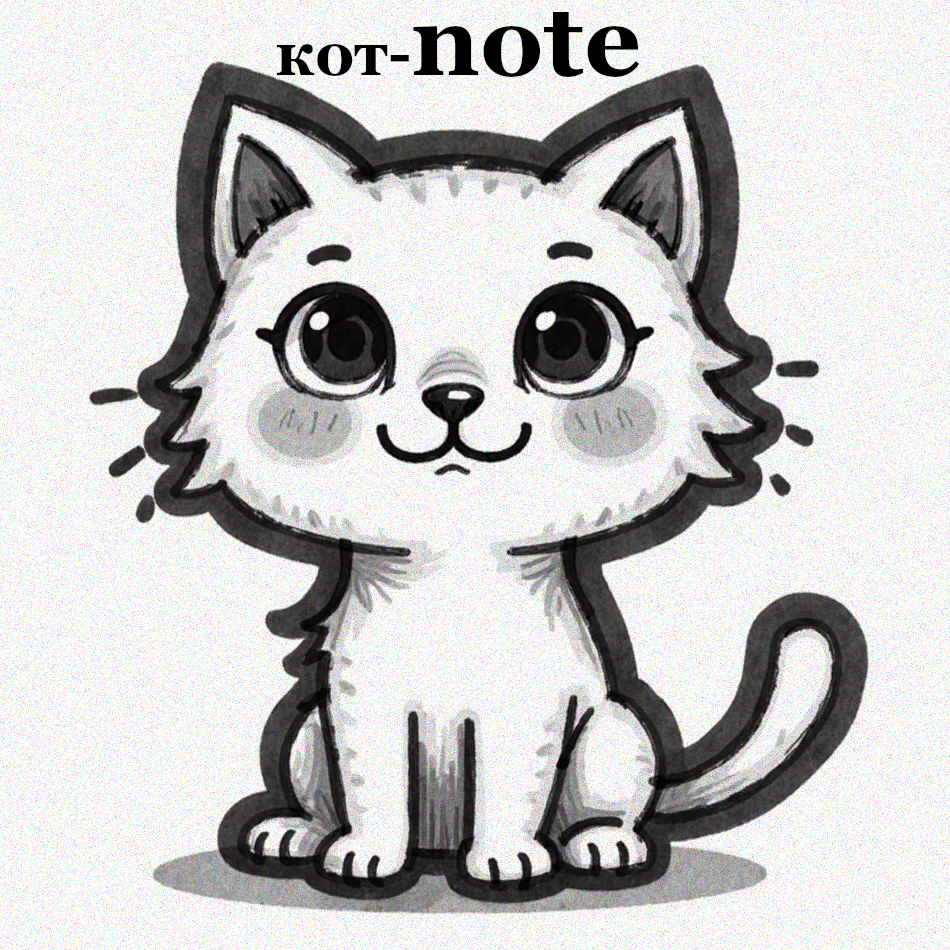
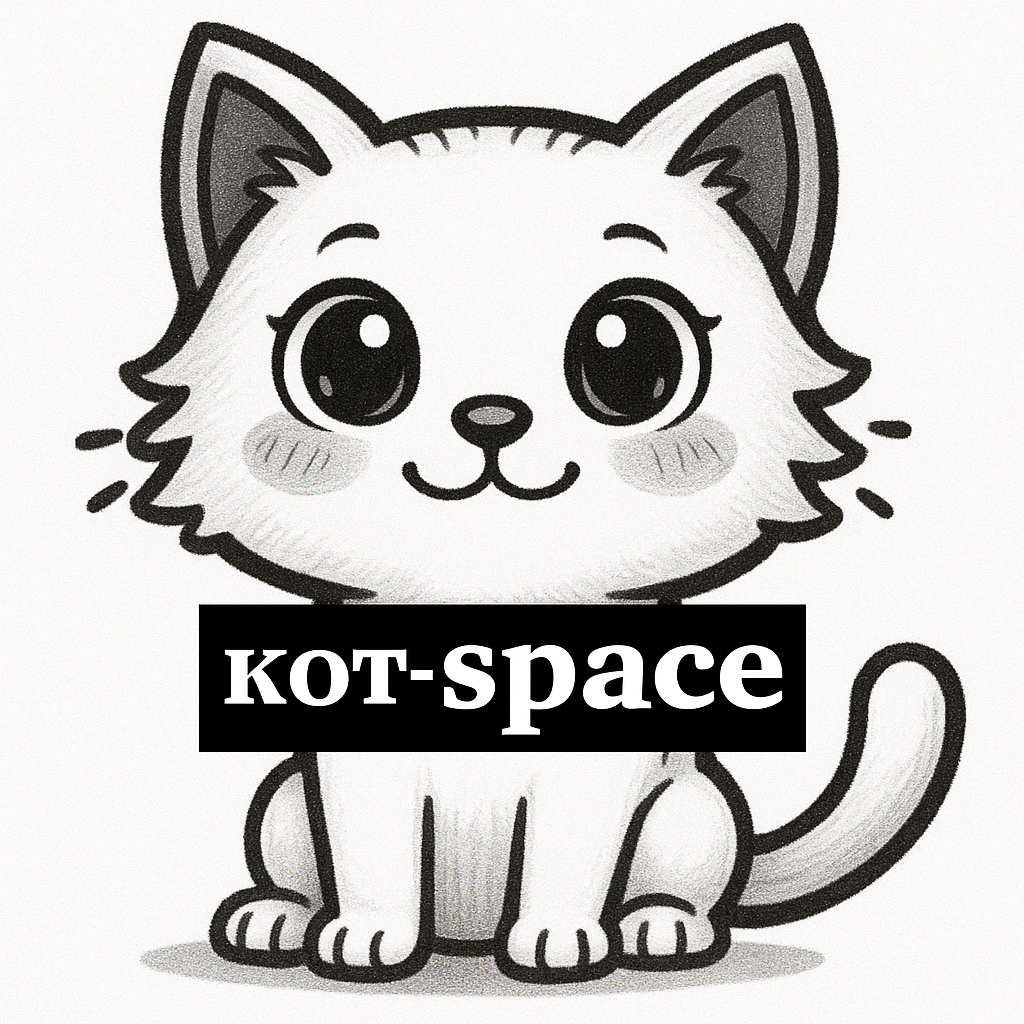
Update UI elements and improve translations across various components

diff --git a/app/pricing/page.tsx b/app/pricing/page.tsx
@@ -63,7 +63,7 @@ export default function PricingPage() {
               <h2 className="text-2xl font-bold text-[var(--foregorund)]">
                 {t("pricing.plan.name")}
               </h2>
-              <div className="bg-red-500 text-white px-3 py-1 text-sm font-medium rounded-full">
+              <div className="bg-green-500 text-white px-3 py-1 text-sm font-medium rounded-full">
                 {t("pricing.plan.mostPopular")}
               </div>
             </div>
@@ -71,7 +71,7 @@ export default function PricingPage() {
           <div className="p-8">
             <div className="mb-8 flex items-baseline">
               <span className="text-5xl font-extrabold text-[var(--foreground)]">
-                R$ {t("pricing.plan.price")}
+                {t("pricing.plan.price")}
               </span>
 
               <span className="ml-1 text-xl font-medium text-[var(--foreground)]">
@@ -147,7 +147,7 @@ export default function PricingPage() {
                 {t("pricing.orderSummary.planLabel")} {t("pricing.plan.name")}
               </span>
               <span className="font-medium text-[var(--foreground)]">
-                R$ {t("pricing.plan.price")}
+                {t("pricing.plan.price")}
               </span>
             </div>
             <div className="flex justify-between py-4 border-t border-b border-[var(--border-color)]">
@@ -163,7 +163,7 @@ export default function PricingPage() {
                 {t("pricing.orderSummary.total")}
               </span>
               <span className="text-lg font-bold text-[var(--foreground)]">
-                R$ {t("pricing.plan.price")}
+                 {t("pricing.plan.price")}
                 {t("pricing.plan.perPeriod")}
               </span>
             </div>
@@ -181,7 +181,7 @@ export default function PricingPage() {
             </div>
           </div>
         </div>
-        <div className="mt-12 bg-[var(--highlight)] p-6 rounded-2xl border-l-4 border-red-500">
+        {/* <div className="mt-12 bg-[var(--highlight)] p-6 rounded-2xl border-l-4 border-red-500">
           <h4 className="font-bold text-[var(--foreground)] text-center">
             Oferta especial por tempo limitado! Economize 33%
           </h4>
@@ -189,7 +189,7 @@ export default function PricingPage() {
             Organize, planeje e realize mais com recursos avançados de
             calendário e gerenciamento de tarefas
           </p>
-        </div>
+        </div> */}
       </div>
     </div>
   );

diff --git a/app/components/tasks.tsx b/app/components/tasks.tsx
@@ -211,7 +211,7 @@ const Tasks = () => {
             setIsAddingTask(!isAddingTask);
             setTimeout(() => newTaskInputRef.current?.focus(), 100);
           }}
-          className="flex items-center gap-1 px-3 py-1.5 rounded-full bg-[var(--theme)] text-[var(--foreground)] hover:opacity-90 transition-all text-sm"
+          className="flex items-center gap-1 px-3 py-1.5 c bg-[var(--theme)] text-[var(--foreground)] hover:opacity-90 transition-all text-sm"
         >
           {isAddingTask ? (
             <>{t("tasks.cancel")}</>
@@ -420,7 +420,7 @@ const Tasks = () => {
                   }
                   className="flex-shrink-0 mt-1"
                 >
-                  <div
+                  <div id="checkbox"
                     className={`w-5 h-5 ${
                       task.is_completed
                         ? "bg-[var(--foreground)] border-[var(--foreground)]"
@@ -429,7 +429,7 @@ const Tasks = () => {
                           : task.priority === "low"
                             ? "border-green-400"
                             : "border-yellow-400"
-                    } border rounded-full flex items-center justify-center transition-colors`}
+                    } border flex items-center justify-center transition-colors`}
                   >
                     {task.is_completed && (
                       <svg

diff --git a/app/components/sidebox.tsx b/app/components/sidebox.tsx
@@ -489,9 +489,9 @@ export default function Sidebox() {
                       <div className="flex items-center flex-1 min-w-0">
                         <div className="p-1">
                           {folder.expanded ? (
-                            <FolderOpen size={16} className="text-yellow-400" />
+                            <FolderOpen size={16} className="text-blue-400" />
                           ) : (
-                            <Folder size={16} className="text-yellow-400" />
+                            <Folder size={16} className="text-blue-400" />
                           )}
                         </div>
                         <ChevronDown
@@ -721,7 +721,7 @@ export default function Sidebox() {
                               <div className="ml-2 flex items-center text-xs">
                                 <Folder
                                   size={12}
-                                  className="mr-1 text-yellow-400"
+                                  className="mr-1 text-blue-400"
                                 />
                                 <span className="truncate max-w-[80px]">
                                   {folders.find((f) => f.id === note.folder_id)

diff --git a/public/splash.html b/public/splash.html
@@ -3,7 +3,7 @@
   <head>
     <meta charset="UTF-8" />
     <meta name="viewport" content="width=device-width, initial-scale=1.0" />
-    <title>Кот-note - Splash Screen</title>
+    <title>Кот-space - Splash Screen</title>
     <style>
       body {
         margin: 0;
@@ -14,7 +14,7 @@
         height: 100vh;
         background:
           linear-gradient(to bottom, rgba(0, 0, 0, 0.2), rgba(0, 0, 0, 0.2)),
-          url("static/images/kotnote.png") no-repeat center top/cover;
+          url("static/images/kotnote.png") no-repeat center center/cover;
         color: white;
         font-family: "Arial", sans-serif;
       }
@@ -66,7 +66,7 @@
   </head>
   <body>
     <div class="splash-container">
-      <div class="splash-title">Кот-note</div>
+      <div class="splash-title">Кот-space</div>
       <div class="splash-subtitle">
         Capture inspiration, craft ideas, and let your notes shine
       </div>

diff --git a/app/editor/page.tsx b/app/editor/page.tsx
@@ -10,7 +10,7 @@ export default function EditorPage() {
   return (
     <ProtectedRoute>
       <div className="h-screen bg-[var(--background)] overflow-y-auto scrollbar flex flex-col">
-        <div className="sticky top-0 bg-[var(--background)] bg-opacity-90 backdrop-blur-sm z-10 py-3 px-4   flex items-center">
+        <div className="sticky top-0 bg-[var(--background)]/60 bg-opacity-90 backdrop-blur-sm z-10 py-3 px-4   flex items-center">
           <Link
             href="/dashboard"
             className="p-2 rounded-full hover:bg-[var(--container)] transition-colors mr-2"

diff --git a/app/notes/[id]/page.tsx b/app/notes/[id]/page.tsx
@@ -501,7 +501,7 @@ export default function NotePage() {
 
   return (
     <ProtectedRoute>
-      <div className="sticky top-0 bg-[var(--background)] bg-opacity-90 backdrop-blur-sm z-10 py-3 px-4 flex items-center">
+      <div className="sticky top-0 bg-[var(--background)]/60 bg-opacity-90 backdrop-blur-sm z-10 py-3 px-4 flex items-center">
         <Link
           href="/dashboard"
           className="p-2 rounded-full hover:bg-[var(--container)] transition-colors mr-2"

diff --git a/app/components/music.tsx b/app/components/music.tsx
@@ -155,7 +155,7 @@ export default function MusicPlayer() {
                 <span
                   className={`px-2 py-1 bg-white/10 hover:bg-white/20 transition ${isMobile ? "text-sm" : "text-xs"}`}
                 >
-                  🎵 {!audioFile && "Select Audio"}
+                  🎵 {!audioFile && "Audio"}
                 </span>
               </label>
 

diff --git a/app/login/page.tsx b/app/login/page.tsx
@@ -107,7 +107,7 @@ function LoginForm() {
           alt={t("login.logoAlt")}
           width={1000}
           height={100}
-          className=" h-60 md:h-80 object-cover object-top"
+          className=" h-60 md:h-80 object-cover object-center"
           priority
         />
       </div>
